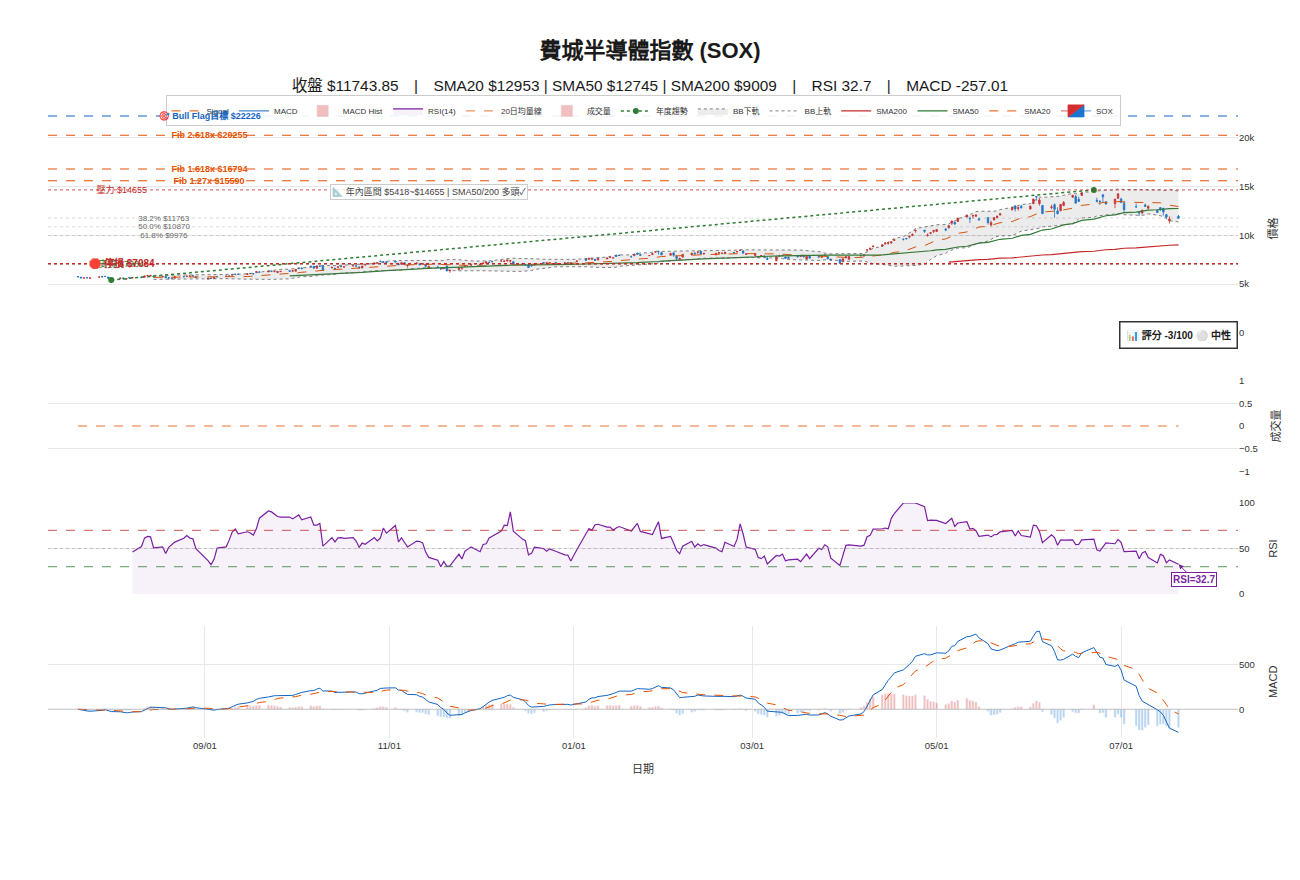
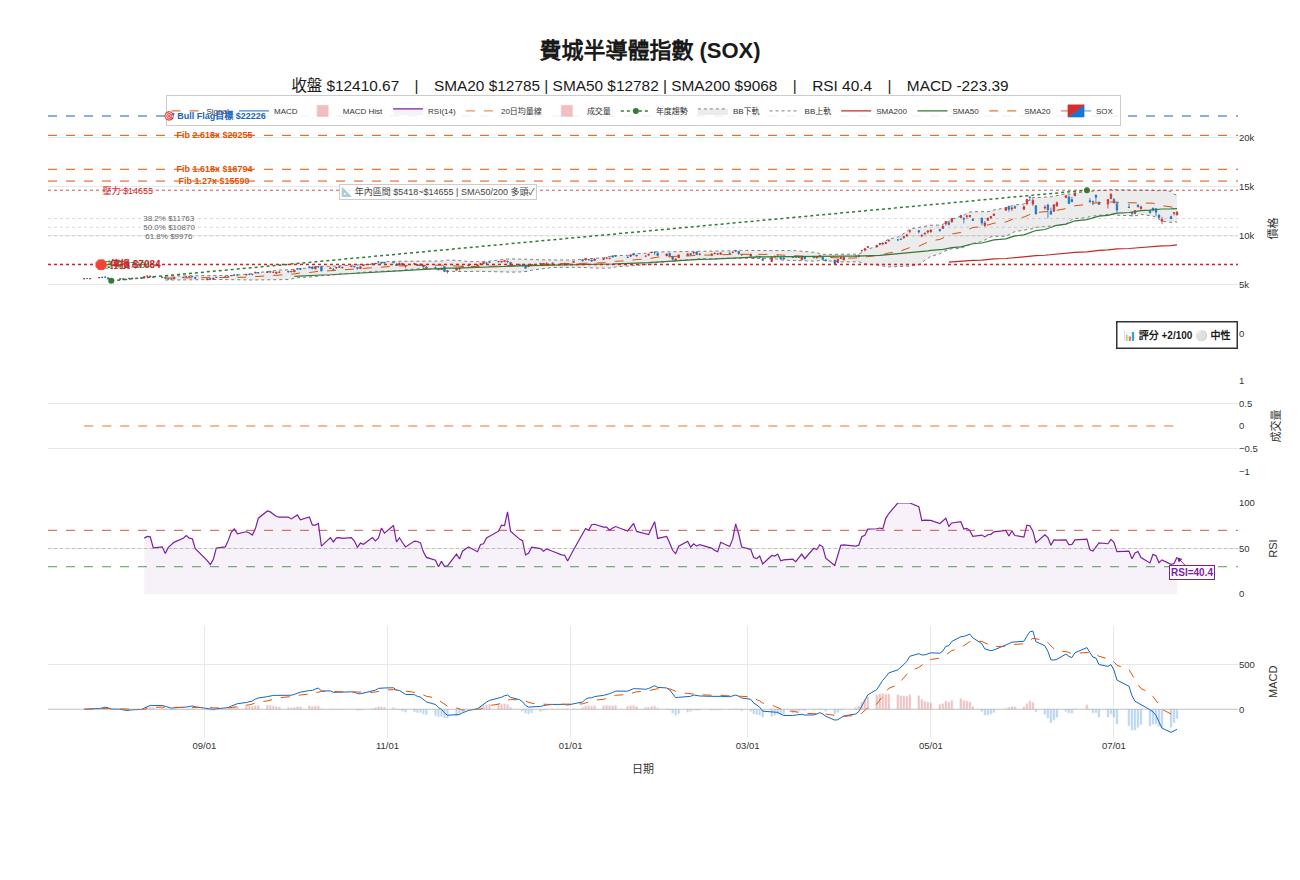
charts: 更新 2026-07-23 技術圖

diff --git a/charts/index.html b/charts/index.html
@@ -39,27 +39,27 @@ body { font-family:'Noto Sans TC',sans-serif; background:#f5f0e8; color:#1a1714;
   <a href="../">← 回首頁</a>
 </div>
 <div class="container">
-  <div class="date-badge">📅 2026/07/21 收盤 — 週二</div>
+  <div class="date-badge">📅 2026/07/22 收盤 — 週三</div>
   <div class="chart-grid">
     <div class="chart-card">
       <img src="dji.png" alt="道瓊工業指數">
-      <div class="info"><h3>道瓊工業指數 DJI</h3><p>51,839.26 (-0.59%) · RSI 44.3</p></div>
+      <div class="info"><h3>道瓊工業指數 DJI</h3><p>52,224.64 (+0.74%) · RSI 48.6</p></div>
     </div>
     <div class="chart-card">
       <img src="sox.png" alt="費城半導體指數">
-      <div class="info"><h3>費城半導體指數 SOX</h3><p>11,743.85 (+0.60%) · RSI 32.7</p></div>
+      <div class="info"><h3>費城半導體指數 SOX</h3><p>12,356.16 (+5.21%) · RSI 33.6</p></div>
     </div>
     <div class="chart-card">
       <img src="ixic.png" alt="納斯達克指數">
-      <div class="info"><h3>納斯達克指數 IXIC</h3><p>25,508.07 (-0.05%) · RSI 45.4</p></div>
+      <div class="info"><h3>納斯達克指數 IXIC</h3><p>25,837.21 (+1.29%) · RSI 44.3</p></div>
     </div>
     <div class="chart-card">
       <img src="tsm.png" alt="台積電 ADR">
-      <div class="info"><h3>台積電 ADR (TSM)</h3><p>$402.30 (+0.99%) · RSI 32.4</p></div>
+      <div class="info"><h3>台積電 ADR (TSM)</h3><p>$424.61 (+5.55%) · RSI 32.3</p></div>
     </div>
     <div class="chart-card">
       <img src="intc.png" alt="Intel">
-      <div class="info"><h3>Intel (INTC)</h3><p>$97.06 (+2.13%) · RSI 26.0</p></div>
+      <div class="info"><h3>Intel (INTC)</h3><p>$105.45 (+8.64%) · RSI 26.5</p></div>
     </div>
     <div class="chart-card" style="cursor:pointer;" onclick="location.href='taiex-technical.html'">
       <div style="height:160px;background:linear-gradient(135deg,#1a1a2e,#16213e);display:flex;align-items:center;justify-content:center;">
